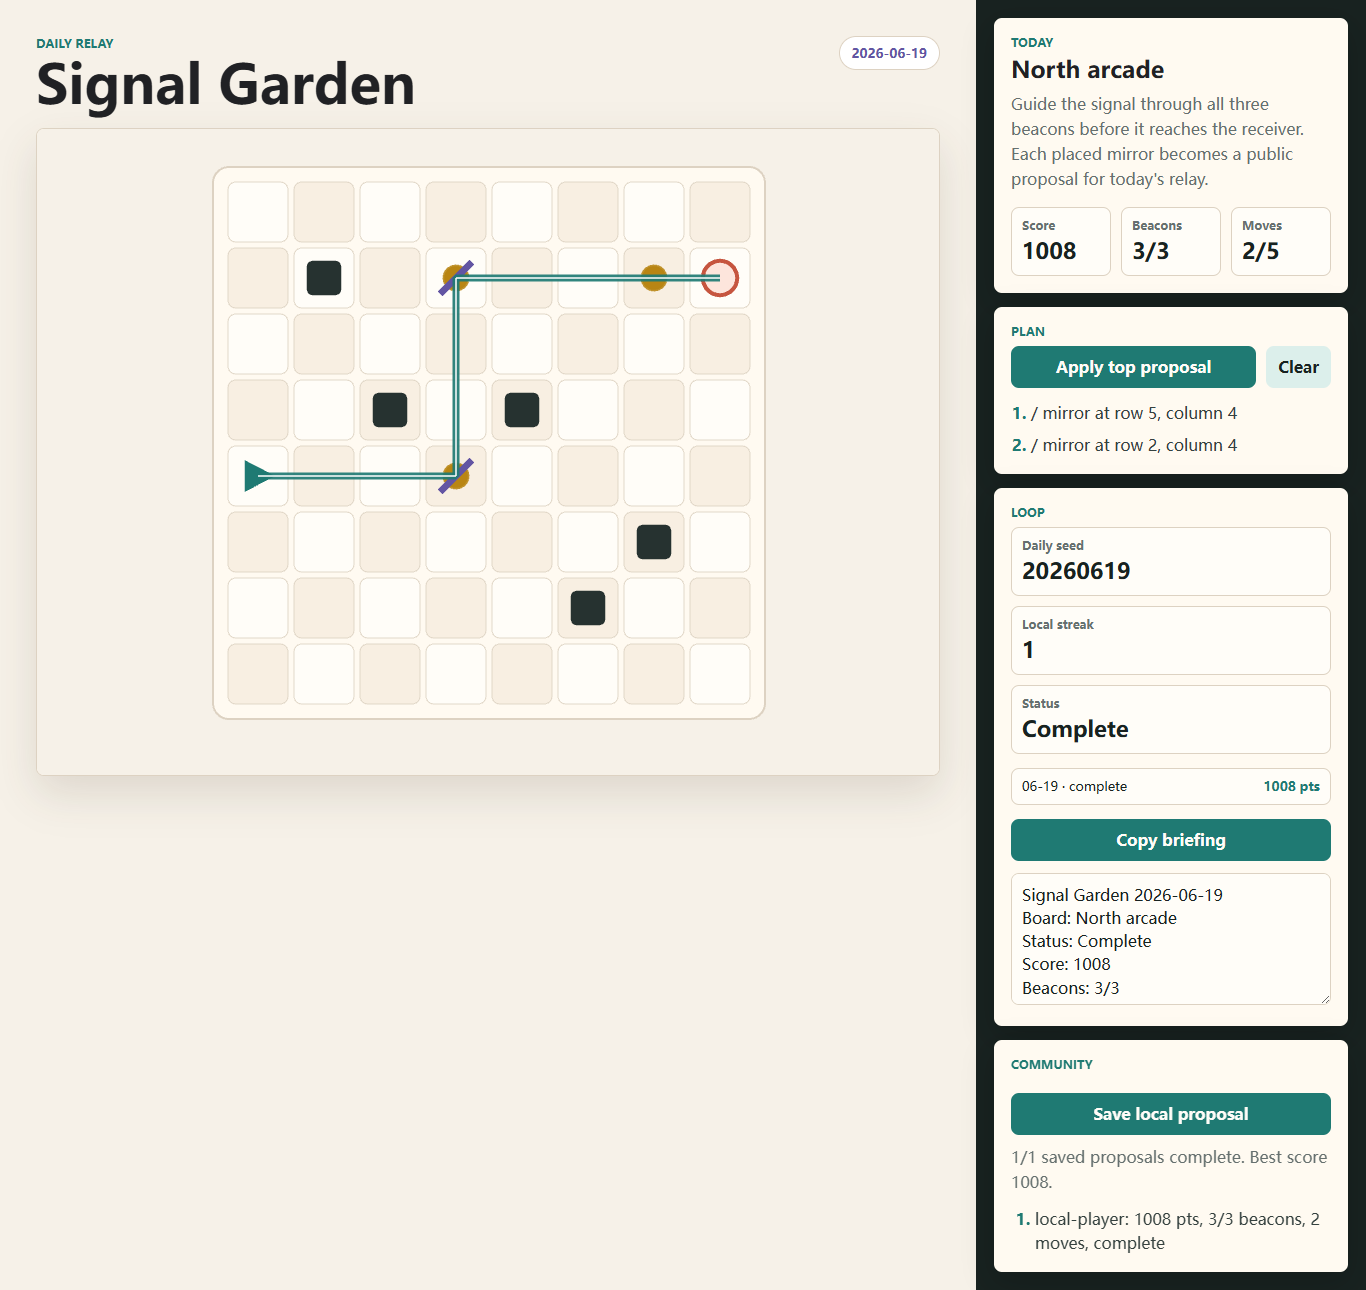
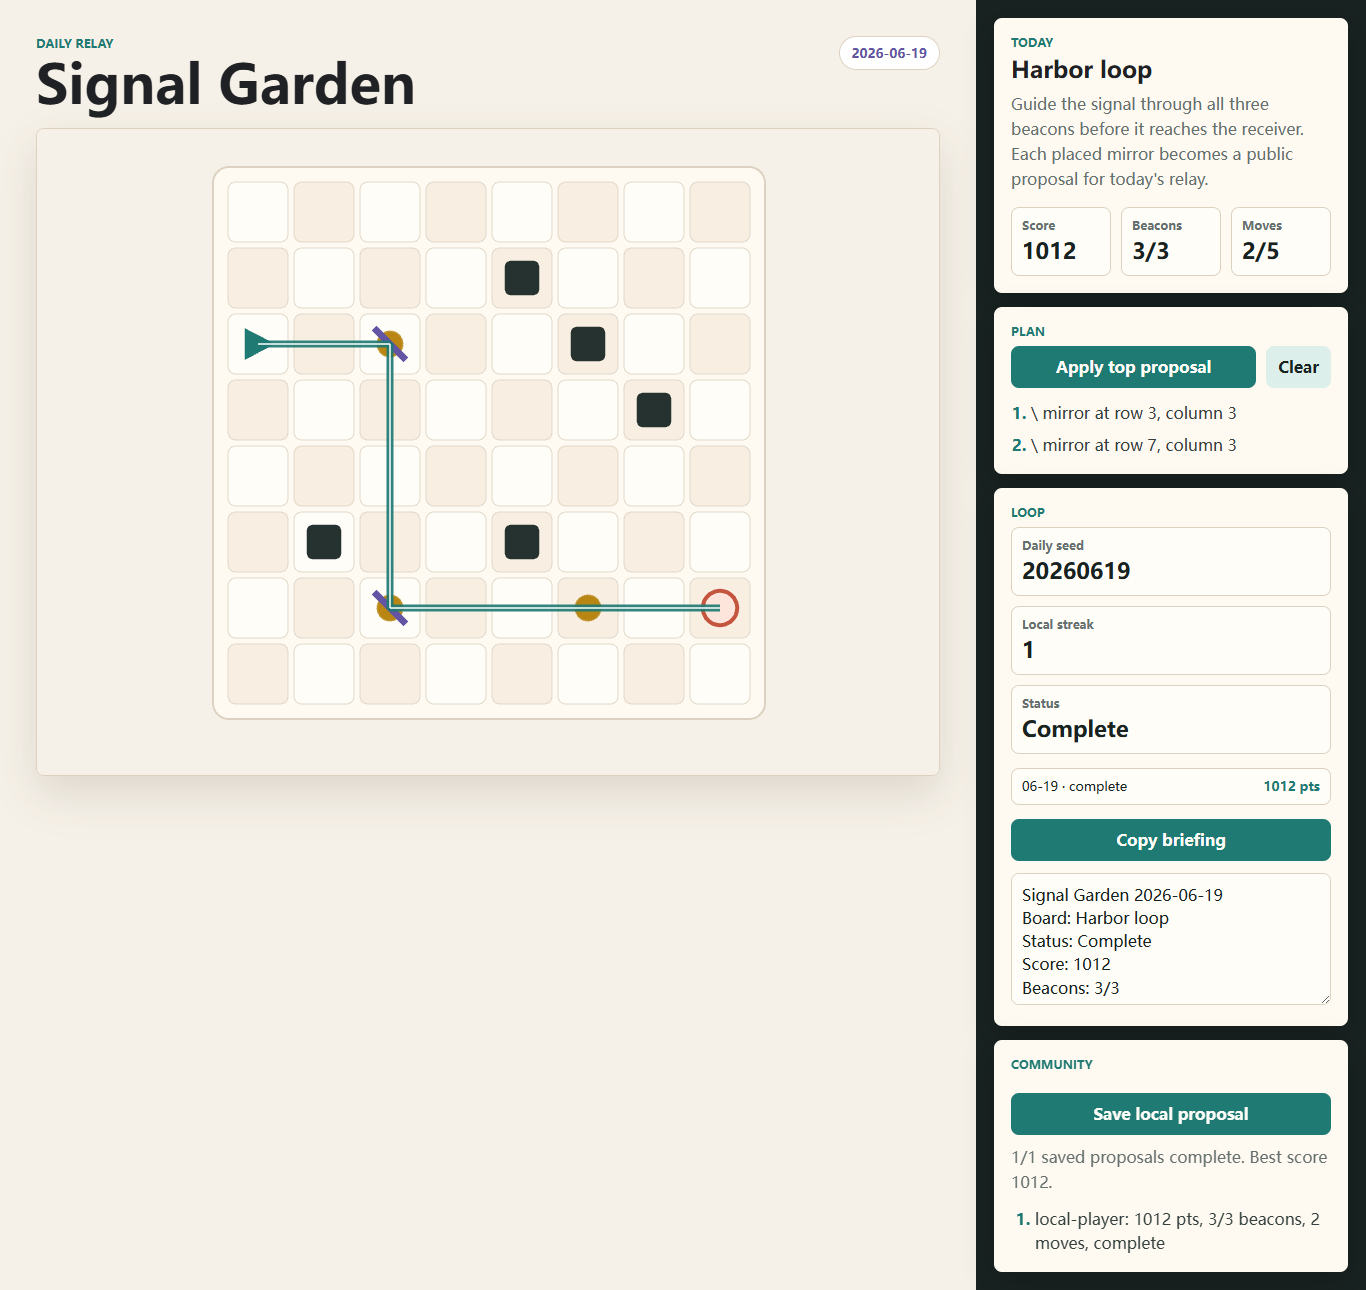
Add puzzle variety and completion feedback

diff --git a/src/game/puzzle.js b/src/game/puzzle.js
@@ -15,7 +15,7 @@ const TURN = {
   backslash: { N: "W", W: "N", S: "E", E: "S" },
 };
 
-const TEMPLATES = [
+export const PUZZLE_TEMPLATES = [
   {
     title: "North arcade",
     source: { x: 0, y: 4, dir: "E" },
@@ -79,6 +79,92 @@ const TEMPLATES = [
       { x: 5, y: 1, mirror: "backslash" },
     ],
   },
+  {
+    title: "East orchard",
+    source: { x: 0, y: 6, dir: "E" },
+    target: { x: 7, y: 2 },
+    beacons: [
+      { x: 2, y: 6 },
+      { x: 4, y: 2 },
+      { x: 6, y: 2 },
+    ],
+    blockers: [
+      { x: 1, y: 1 },
+      { x: 2, y: 2 },
+      { x: 3, y: 4 },
+      { x: 5, y: 5 },
+      { x: 6, y: 6 },
+    ],
+    solution: [
+      { x: 4, y: 6, mirror: "slash" },
+      { x: 4, y: 2, mirror: "slash" },
+    ],
+  },
+  {
+    title: "South lantern",
+    source: { x: 6, y: 0, dir: "S" },
+    target: { x: 1, y: 7 },
+    beacons: [
+      { x: 6, y: 3 },
+      { x: 3, y: 3 },
+      { x: 1, y: 6 },
+    ],
+    blockers: [
+      { x: 2, y: 1 },
+      { x: 4, y: 2 },
+      { x: 5, y: 5 },
+      { x: 7, y: 6 },
+      { x: 3, y: 7 },
+    ],
+    solution: [
+      { x: 6, y: 3, mirror: "slash" },
+      { x: 1, y: 3, mirror: "slash" },
+    ],
+  },
+  {
+    title: "Central ferry",
+    source: { x: 7, y: 0, dir: "S" },
+    target: { x: 0, y: 1 },
+    beacons: [
+      { x: 7, y: 5 },
+      { x: 4, y: 5 },
+      { x: 2, y: 1 },
+    ],
+    blockers: [
+      { x: 1, y: 3 },
+      { x: 3, y: 3 },
+      { x: 5, y: 2 },
+      { x: 6, y: 6 },
+      { x: 0, y: 7 },
+    ],
+    solution: [
+      { x: 7, y: 5, mirror: "slash" },
+      { x: 2, y: 5, mirror: "backslash" },
+      { x: 2, y: 1, mirror: "backslash" },
+    ],
+  },
+  {
+    title: "Quiet relay",
+    source: { x: 0, y: 1, dir: "E" },
+    target: { x: 2, y: 7 },
+    beacons: [
+      { x: 3, y: 1 },
+      { x: 5, y: 4 },
+      { x: 2, y: 6 },
+    ],
+    blockers: [
+      { x: 1, y: 4 },
+      { x: 3, y: 3 },
+      { x: 4, y: 7 },
+      { x: 6, y: 2 },
+      { x: 7, y: 5 },
+    ],
+    solution: [
+      { x: 5, y: 1, mirror: "backslash" },
+      { x: 5, y: 6, mirror: "slash" },
+      { x: 2, y: 6, mirror: "slash" },
+    ],
+  },
 ];
 
 function keyOf(cell) {
@@ -96,7 +182,7 @@ function normalizePlan(plan = []) {
 export function createDailyPuzzle(date = new Date()) {
   const key = dayKey(date);
   const random = mulberry32(hashSeed(`signal-garden:${key}`));
-  const template = pick(random, TEMPLATES);
+  const template = pick(random, PUZZLE_TEMPLATES);
   const accents = ["teal", "coral", "violet", "amber"];
 
   return {

diff --git a/src/game/SignalGardenScene.js b/src/game/SignalGardenScene.js
@@ -24,6 +24,8 @@ export class SignalGardenScene extends Phaser.Scene {
     this.puzzle = options.puzzle;
     this.placements = planToMap(options.initialPlan || []);
     this.layers = {};
+    this.wasComplete = false;
+    this.completionFx = null;
   }
 
   create() {
@@ -96,6 +98,10 @@ export class SignalGardenScene extends Phaser.Scene {
   }
 
   redraw() {
+    if (this.completionFx) {
+      this.completionFx.destroy();
+      this.completionFx = null;
+    }
     for (const layer of Object.values(this.layers)) {
       layer.destroy();
     }
@@ -107,6 +113,10 @@ export class SignalGardenScene extends Phaser.Scene {
 
     const result = traceSignal(this.puzzle, mapToPlan(this.placements));
     this.drawBoard(result);
+    if (result.complete && !this.wasComplete) {
+      this.playCompletionPulse(this.getLayout(), result);
+    }
+    this.wasComplete = result.complete;
     this.emitState(result);
   }
 
@@ -226,6 +236,49 @@ export class SignalGardenScene extends Phaser.Scene {
     } else {
       graphics.lineBetween(center.x - pad, center.y - pad, center.x + pad, center.y + pad);
     }
+  }
+
+  playCompletionPulse(layout, result) {
+    const graphics = this.add.graphics();
+    this.completionFx = graphics;
+    graphics.setDepth(10);
+    graphics.lineStyle(Math.max(10, layout.cell * 0.16), COLORS.amber, 0.72);
+
+    const first = this.cellCenter(layout, result.visited[0].x, result.visited[0].y);
+    graphics.beginPath();
+    graphics.moveTo(first.x, first.y);
+    for (const step of result.visited.slice(1)) {
+      const point = this.cellCenter(layout, step.x, step.y);
+      graphics.lineTo(point.x, point.y);
+    }
+    graphics.strokePath();
+
+    graphics.lineStyle(4, COLORS.coral, 0.92);
+    for (const key of result.hitBeacons) {
+      const [x, y] = key.split(",").map(Number);
+      const center = this.cellCenter(layout, x, y);
+      graphics.strokeCircle(center.x, center.y, layout.cell * 0.32);
+    }
+
+    const receiver = this.cellCenter(layout, this.puzzle.target.x, this.puzzle.target.y);
+    graphics.lineStyle(5, COLORS.coral, 0.94);
+    graphics.strokeCircle(receiver.x, receiver.y, layout.cell * 0.42);
+
+    this.cameras.main.flash(160, 255, 250, 241, false);
+    this.tweens.add({
+      targets: graphics,
+      alpha: 0,
+      scaleX: 1.03,
+      scaleY: 1.03,
+      duration: 900,
+      ease: "Sine.easeOut",
+      onComplete: () => {
+        if (this.completionFx === graphics) {
+          this.completionFx = null;
+        }
+        graphics.destroy();
+      },
+    });
   }
 
   cellCenter(layout, x, y) {

diff --git a/index.html b/index.html
@@ -3,6 +3,7 @@
   <head>
     <meta charset="UTF-8" />
     <meta name="viewport" content="width=device-width, initial-scale=1.0" />
+    <link rel="icon" href="/favicon.svg" />
     <title>Signal Garden</title>
   </head>
   <body>

diff --git a/README.md b/README.md
@@ -28,10 +28,12 @@ npm run audit:devvit
 
 - Browser-first Phaser game loop.
 - Deterministic daily puzzle seed.
+- Seven verified puzzle templates for a broader daily rotation.
 - Local-only persistence with no credentials or private account data.
 - Local proposal consensus that ranks saved player plans.
 - A real "apply top proposal" flow: the UI applies the best saved community plan, not a hidden answer.
 - Recent local archive and streak state for the daily return loop.
+- Completion pulse feedback for solved boards.
 - Server-shaped adapter for init, proposal submission, and archive reads.
 - Redis-shaped proposal store and local Devvit shell build outputs for pre-account validation.
 

diff --git a/docs/design.md b/docs/design.md
@@ -12,6 +12,7 @@
 ## Differentiators
 
 - The puzzle is readable in seconds but has a visible optimization target.
+- Seven verified templates broaden the daily rotation without changing the core rules.
 - The board can represent individual proposals or community consensus.
 - The briefing format is small enough to fit inside a post, comment, or chat surface.
 - The renderer is independent of the puzzle rules, so the rules can move to a server or platform adapter later.
@@ -27,3 +28,4 @@ Future server routes should recompute every proposal score from the shared puzzl
 - Warm paper background for a puzzle-table feel.
 - Teal signal path, coral receiver, amber beacons, violet mirrors.
 - Ghost mirrors show the suggested community plan without solving the board automatically.
+- A solved board flashes a short amber/coral pulse across the route, beacons, and receiver.

diff --git a/docs/gallery_assets.md b/docs/gallery_assets.md
@@ -18,7 +18,7 @@ Generated: 2026-06-20
 
 ## Caption
 
-Daily browser puzzle prototype with deterministic board generation, adapter-backed local proposal consensus, recent archive state, and a compact briefing export.
+Daily browser puzzle prototype with seven verified board templates, adapter-backed local proposal consensus, recent archive state, completion feedback, and a compact briefing export.
 
 ## Guardrails
 